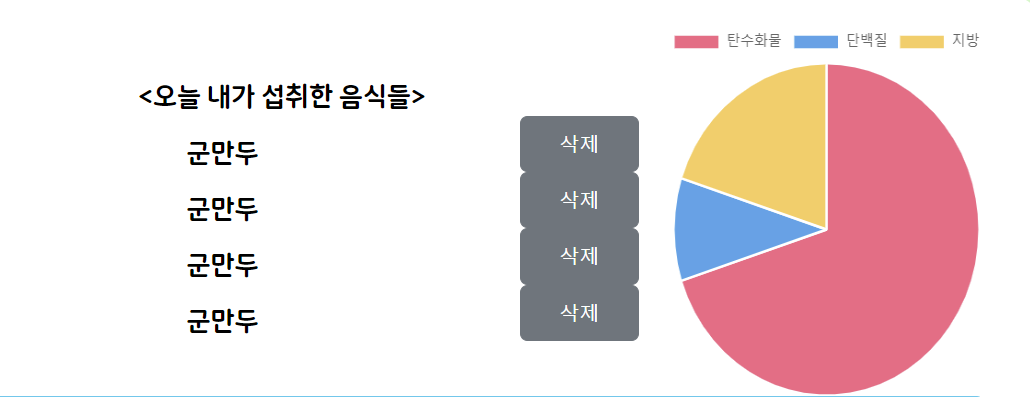
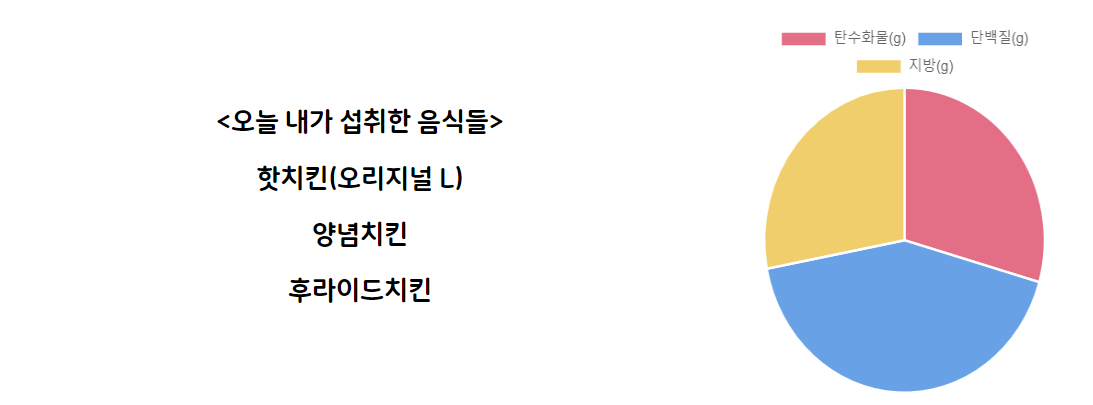
Update MainPage
샘플이미지 변경했습니다.
보드 상위4개 읽어서 메인페이지에 게시하도록 했습니다.

diff --git a/src/main/resources/templates/main/mainPage.html b/src/main/resources/templates/main/mainPage.html
@@ -10,6 +10,7 @@
     integrity="sha384-rbsA2VBKQhggwzxH7pPCaAqO46MgnOM80zW1RWuH61DGLwZJEdK2Kadq2F9CUG65" crossorigin="anonymous" />
   <link rel="stylesheet" href = "/css/navBar.css">
   <link rel="stylesheet" href = "/css/main/mainPage.css">
+  <link rel="stylesheet" href = "/css/board/boardPagebefore.css">
   <title></title>
 </head>
 
@@ -62,42 +63,36 @@
     <div class = "row">
       <a class = "col"id = "label" style="text-decoration:;" href="/board/index">다른 사람들은<br>어떻게 하고 있을까요?</a>
     </div>
-    <div class =  "row justify-content-center">
-      <div class="card col-4" id = "card">
-        <img src="/img/sampleFoodBeer.jpg" class="card-img-top">
+    <li class="row justify-content-center">
+      <div class="card col-4" id="card" th:each="board: ${boardList}">
+        <tr th:if="${board.fileAttached == 1}">
+          <div id="imgBox"><img th:src="@{|/upload/${board.storedFileName}|}" alt="" class="card-img-top" id="img"></div>
+        </tr>
         <div class="card-body">
-          <h5 class="card-title">맥주!!!!</h5>
-          <p class="card-text">2023-11-28<br>author</p>
-          <btn class="btn btn-outline-danger"style="font-size:20px" onclick = "iLikeIt(this)">♡</btn>
+          <h5 class="card-title" th:text="${board.boardTitle}"></h5>
+          <p class="card-text" th:text="${board.boardCreatedTime}"></p>
+          <br>
+          <p class="card-text" th:text="${board.boardWriter}"></p>
+          <div class = "row">
+            <div class = "col">
+              <a th:id="'likeCnt' + ${board.id}"  >0</a>
+              <btn
+                      class="btn btn-outline-danger col"
+                      style="font-size: 20px"
+                      th:onclick="'iLikeIt(this, ' + ${board.id} + ')'"
+              >♡</btn>
+            </div>
+            <tr th:if="${board.boardWriter == userName}">
+              <div class = "col">
+                <form action="/board/deleteItem" method = "post">
+                  <btn type = "submit" class = "btn btn-secondary" style="float:right"> 삭제하기 </btn>
+                </form>
+              </div>
+            </tr>
+          </div>
         </div>
       </div>
-      <div class="card col-4" id = "card">
-        <img src="/img/sampleFoodForkChap.jpg" class="card-img-top">
-        <div class="card-body" >
-          <h5 class="card-title">등갈비</h5>
-          <p class="card-text">2023-11-29<br>author</p>
-          <btn class="btn btn-outline-danger" style="font-size:20px" onclick = "iLikeIt(this)">♡</btn>
-        </div>
-      </div>
-    </div>
-    <div class =  "row justify-content-center">
-      <div class="card col-4" id = "card">
-        <img src="/img/sampleFoodFrog.jpg" class="card-img-top">
-        <div class="card-body">
-          <h5 class="card-title">개구리 뒷다리~</h5>
-          <p class="card-text">2023-11-28<br>author</p>
-          <btn class="btn btn-outline-danger"style="font-size:20px" onclick = "iLikeIt(this)">♡</btn>
-        </div>
-      </div>
-      <div class="card col-4" id = "card">
-        <img src="/img/sampleFoodCutlet.jpg" class="card-img-top">
-        <div class="card-body" >
-          <h5 class="card-title">돈까스</h5>
-          <p class="card-text">2023-11-29<br>author</p>
-          <btn class="btn btn-outline-danger" style="font-size:20px" onclick = "iLikeIt(this)">♡</btn>
-        </div>
-      </div>
-    </div>
+    </li>
     <script src = "/js/account/likeIt.js"></script>
   </div>
 </body>

diff --git a/src/main/resources/static/css/main/mainPage.css b/src/main/resources/static/css/main/mainPage.css
@@ -66,3 +66,7 @@ body{
     border-right:10px;
     margin:100px;
 }
+
+#likeCnt{
+    font-size:15px;
+}

diff --git a/src/main/java/com/project/hae_dream/controller/HomeController.java b/src/main/java/com/project/hae_dream/controller/HomeController.java
@@ -1,5 +1,9 @@
 package com.project.hae_dream.controller;
 
+import com.project.hae_dream.dto.BoardDTO;
+import com.project.hae_dream.entity.BoardEntity;
+import com.project.hae_dream.entity.BoardFileEntity;
+import com.project.hae_dream.service.BoardService;
 import com.project.hae_dream.service.MainService;
 import lombok.RequiredArgsConstructor;
 import org.springframework.stereotype.Controller;
@@ -8,16 +12,24 @@ import org.springframework.web.bind.annotation.GetMapping;
 
 import javax.servlet.http.HttpServletRequest;
 import javax.servlet.http.HttpSession;
+import java.util.Collections;
 import java.util.HashMap;
+import java.util.List;
 
 @RequiredArgsConstructor
 @Controller
 public class HomeController {
 
     private final MainService mainService;
+    private final BoardService boardService;
 
     @GetMapping("/index")
     public String index(Model model, HttpServletRequest request) throws NullPointerException{
+
+        List<BoardDTO> boardDTOList = boardService.findAll();
+        Collections.reverse(boardDTOList);
+
+        model.addAttribute("boardList",boardDTOList.subList(0,4));
 
         HttpSession session = request.getSession(false);
 
